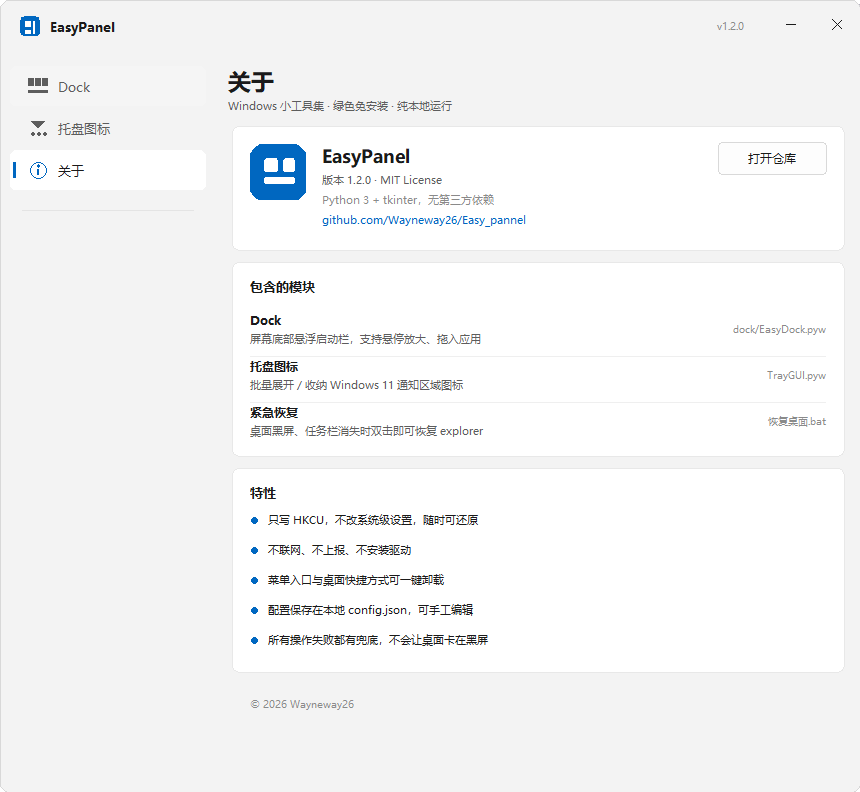
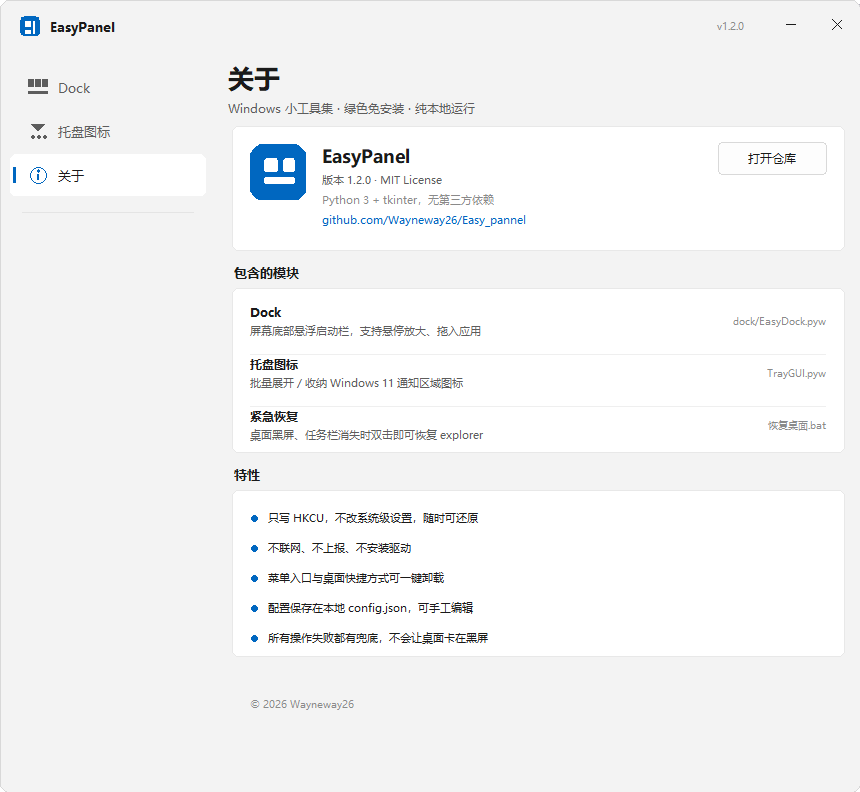
对齐 WinUI 3 细节：组标题移到卡片外、设置行 60px、页标题 26px、卡片圆角 6

diff --git a/README.md b/README.md
@@ -15,9 +15,10 @@ Windows 小工具集：绿色免安装、纯本地运行、只改当前用户设
 ![EasyPanel](assets/panel.png)
 
 一个窗口管两件事。视觉照 Windows 11「设置」做：`#F3F3F3` 底、白色卡片承载每组设置、
-`#0067C0` 强调色、8px 圆角、卡片内「左标题 + 灰描述 / 右侧控件」的设置行、左侧导航选中项
-带强调色竖条——也就是 WinUI 3 的 Fluent Design，和 AutoDarkMode 那类原生应用摆在一起
-观感是同一套。全部用 tkinter 的 Canvas 自绘，没有引入 WinUI 或任何第三方库。
+`#0067C0` 强调色、6px 圆角、**组标题在卡片外面上方**、卡片内「左标题 + 灰描述 / 右侧控件」
+的设置行配 1px 分割线、左侧导航选中项带强调色竖条——也就是 WinUI 3 的 Fluent Design，
+和 AutoDarkMode 那类原生应用摆在一起观感是同一套。全部用 tkinter 的 Canvas 自绘，
+没有引入 WinUI 或任何第三方库。
 
 | 页面 | 能做什么 |
 | --- | --- |
